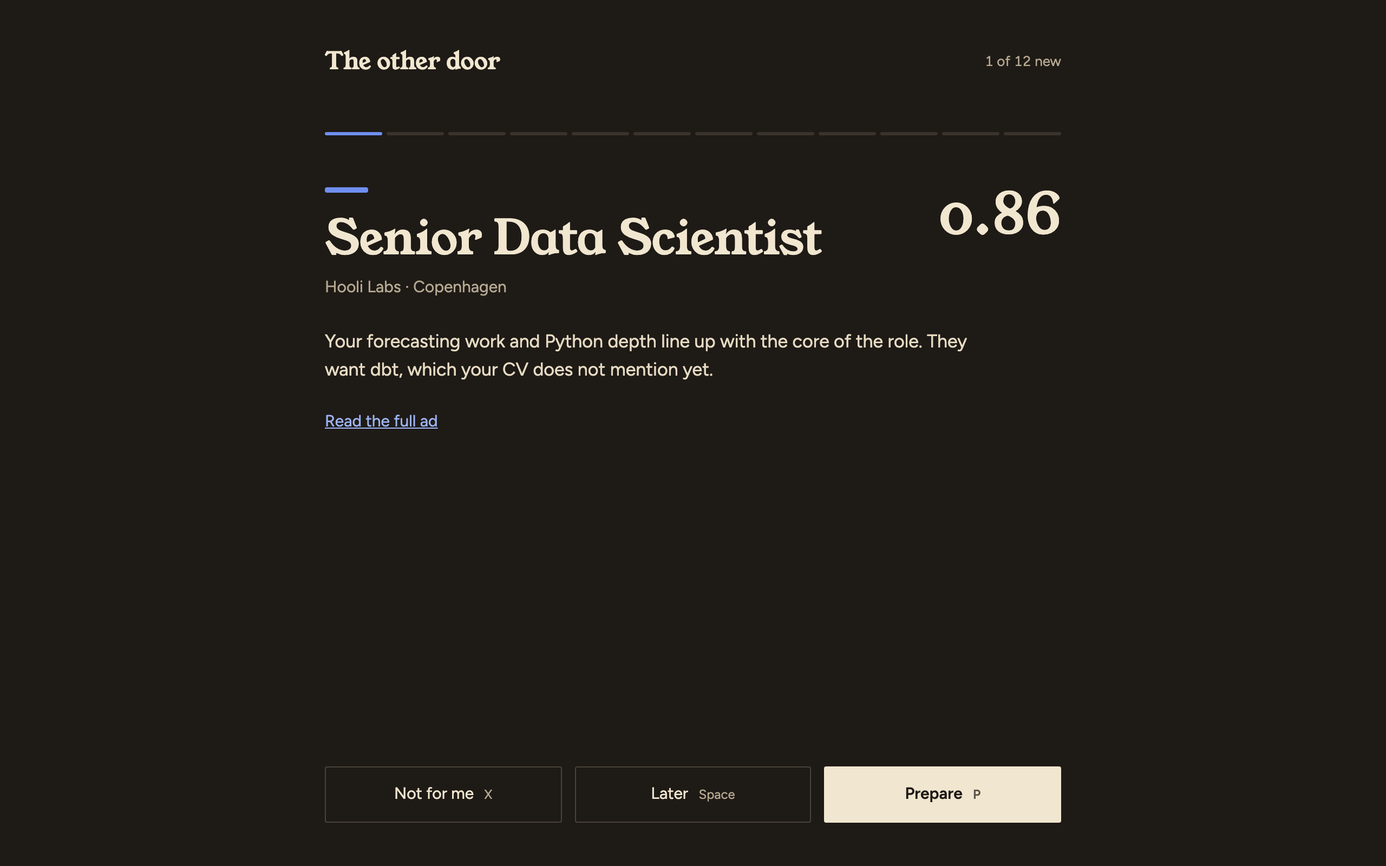
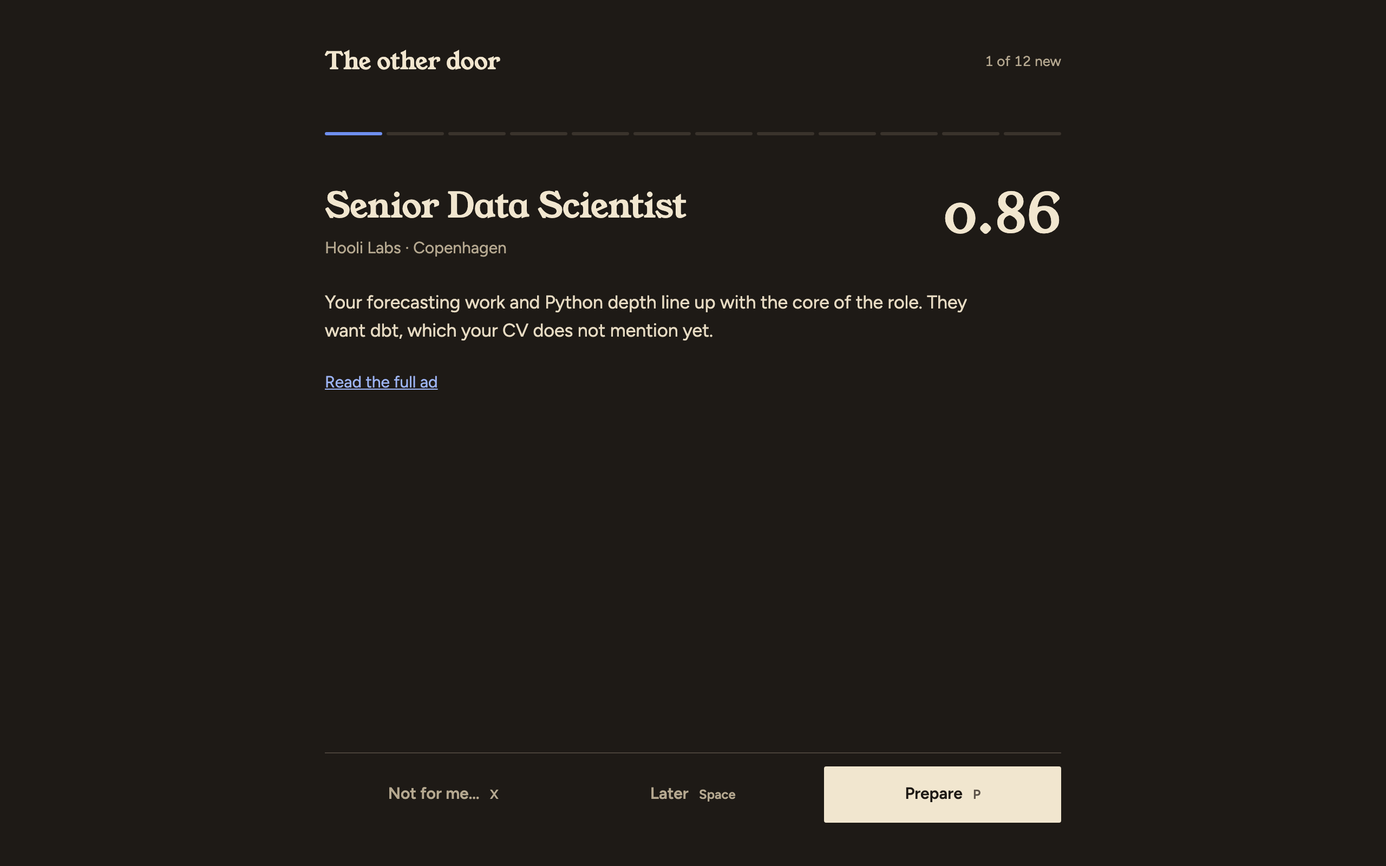
docs: the mockups in the next style, no blue dash, heavy rules opening lists and columns, text buttons (#516)
Claude-Session: https://claude.ai/code/session_01X7AZRFqExrr4sA3BdgVa7f

diff --git a/docs/design/mockups/Main.dc.html b/docs/design/mockups/Main.dc.html
@@ -20,7 +20,7 @@ button{font:inherit;cursor:pointer}
   <nav aria-label="Main" style="flex: 0 0 220px; box-sizing: border-box; padding: 28px 20px; display: flex; flex-direction: column; gap: 28px; border-right: 1px solid #D6C7A8">
     <div style="display: flex; align-items: center; gap: 10px; padding: 0 8px">
       <svg width="24" height="32" viewBox="100 48 312 416" aria-hidden="true"><path transform="translate(97.5 452.5) scale(.5 -.5)" d="M533 185Q533 149 544.0 120.5Q555 92 592 87Q604 86 604 74V41Q604 27 589 27Q540 27 507.5 21.5Q475 16 451.5 7.5Q428 -1 405 -11Q401 -13 398 -13H396Q393 -13 393 -10Q395 13 397.5 35.0Q400 57 404 79Q399 66 382.5 44.0Q366 22 334.5 4.5Q303 -13 252 -13Q218 -13 179.5 1.0Q141 15 107.0 46.0Q73 77 51.5 127.5Q30 178 30 251Q30 344 63.5 401.5Q97 459 150.5 486.0Q204 513 264 513Q340 513 393 466V530Q393 557 389.5 582.0Q386 607 374.0 624.5Q362 642 334 645Q322 646 322 658V692Q322 698 326.0 700.5Q330 703 337 705Q416 731 460.5 757.0Q505 783 525 798Q528 800 530 800H531Q533 800 533 798ZM393 324Q393 371 362.5 404.0Q332 437 282 437Q234 437 207.0 416.0Q180 395 169.5 360.0Q159 325 159 283Q159 187 197.5 131.0Q236 75 297 75Q324 75 344.0 88.5Q364 102 376.5 122.0Q389 142 393 160Z" fill="#1E1A16"/></svg>
-      <span style="font-family: 'Young Serif', Georgia, serif; font-size: 26px; font-weight: 400; letter-spacing: -0.01em">The other door</span>
+      <span style="font-family: 'Young Serif', Georgia, serif; font-size: 22px; font-weight: 400; letter-spacing: -0.01em; white-space: nowrap">The other door</span>
     </div>
     <div style="display: flex; flex-direction: column; gap: 2px">
       <sc-for list="{{nav}}" as="item" hint-placeholder-count="5">
@@ -34,7 +34,7 @@ button{font:inherit;cursor:pointer}
   </nav>
 
   <section aria-label="Matches" style="flex: 1 1 340px; min-width: 0; box-sizing: border-box; padding: 32px 0 24px; border-right: 1px solid #D6C7A8; display: flex; flex-direction: column">
-    <div style="padding: 0 28px 20px">
+    <div style="margin: 0 28px; padding: 0 0 20px; border-bottom: 2px solid #1E1A16">
       <h1 style="margin: 0; font-family: 'Young Serif', Georgia, serif; font-size: 32px; font-weight: 400; letter-spacing: -0.01em; line-height: 1.1">Matches</h1>
       <p style="margin: 6px 0 0; color: #5C5249">12 new since your last review</p>
       <div style="display: flex; gap: 6px; margin-top: 18px; flex-wrap: wrap">
@@ -43,16 +43,15 @@ button{font:inherit;cursor:pointer}
         <button type="button" style="height: 32px; padding: 0 2px; border: 0; background: none; color: #1E1A16; font-size: 13px">Best first</button>
       </div>
     </div>
-    <ul style="list-style: none; margin: 0; padding: 0 12px; display: flex; flex-direction: column; gap: 2px">
+    <ul style="list-style: none; margin: 0; padding: 0 28px; display: flex; flex-direction: column; gap: 0">
       <sc-for list="{{jobs}}" as="job" hint-placeholder-count="6">
         <li>
           <button type="button" onClick="{{job.pick}}" style="{{job.style}}">
             <span style="display: flex; flex-direction: column; gap: 2px; min-width: 0; text-align: left">
-              <sc-if value="{{job.selected}}" hint-placeholder-val="{{ false }}"><span aria-hidden="true" style="display: block; width: 22px; height: 4px; border-radius: 2px; background: {{accent}}; margin-bottom: 6px"></span></sc-if>
               <span style="font-weight: 600; font-size: 15px">{{job.title}}</span>
               <span style="color: #5C5249; font-size: 13px">{{job.company}} · {{job.place}}</span>
             </span>
-            <span style="font-family: 'Young Serif', Georgia, serif; font-size: 20px; font-weight: 400; font-variant-numeric: tabular-nums">{{job.score}}</span>
+            <span style="font-family: 'Young Serif', Georgia, serif; font-size: 22px; font-weight: 400; font-variant-numeric: tabular-nums">{{job.score}}</span>
           </button>
         </li>
       </sc-for>
@@ -61,24 +60,23 @@ button{font:inherit;cursor:pointer}
 
   <article style="flex: 999 1 480px; min-width: 0; box-sizing: border-box; padding: 40px 48px; display: flex; flex-direction: column; gap: 24px; max-width: 760px">
     <div>
-      <span aria-hidden="true" style="display: block; width: 40px; height: 5px; border-radius: 2px; background: {{accent}}; margin-bottom: 18px"></span>
-      <h2 style="margin: 0; font-family: 'Young Serif', Georgia, serif; font-size: 36px; font-weight: 400; letter-spacing: -0.01em; line-height: 1.15">{{sel.title}}</h2>
+      <h2 style="margin: 0; font-family: 'Young Serif', Georgia, serif; font-size: 32px; font-weight: 400; letter-spacing: -0.01em; line-height: 1.15">{{sel.title}}</h2>
       <p style="margin: 8px 0 0; color: #5C5249; font-size: 15px">{{sel.company}} · {{sel.place}} · posted 3 days ago · via Jobindex</p>
     </div>
     <div style="display: flex; align-items: baseline; gap: 14px">
-      <span style="font-family: 'Young Serif', Georgia, serif; font-size: 56px; font-weight: 400; line-height: 1; font-variant-numeric: tabular-nums">{{sel.score}}</span>
+      <span style="font-family: 'Young Serif', Georgia, serif; font-size: 50px; font-weight: 400; line-height: 1; font-variant-numeric: tabular-nums">{{sel.score}}</span>
       <span style="font-weight: 600">Strong match</span>
     </div>
     <p style="margin: 0; font-size: 15px; max-width: 60ch">Your forecasting work and Python depth line up with the core of the role. The team wants dbt, which your CV doesn't mention yet.</p>
     <div style="display: flex; gap: 10px; flex-wrap: wrap">
       <button type="button" style="height: 32px; padding: 0 16px; border: 0; border-radius: 2px; background: #1E1A16; color: #FFFCF5; font-weight: 600; font-size: 13px">Prepare application</button>
       <button type="button" style="height: 32px; padding: 0; border: 0; background: none; color: #3D5798; font-weight: 600; font-size: 13px">Mark applied</button>
-      <button type="button" style="height: 44px; padding: 0 18px; border: 0; background: transparent; color: #5C5249">Not for me</button>
+      <button type="button" style="height: 32px; padding: 0; border: 0; background: none; color: #5C5249; font-weight: 600; font-size: 13px">Not for me…</button>
     </div>
     <hr style="border: 0; border-top: 1px solid #D6C7A8; margin: 4px 0">
     <div style="display: grid; grid-template-columns: repeat(2, minmax(0, 1fr)); gap: 32px">
       <div>
-        <h3 style="margin: 0 0 10px; font-size: 12px; letter-spacing: 0.08em; text-transform: uppercase; color: #5C5249">Why it fits</h3>
+        <h3 style="margin: 0 0 10px; font-size: 11px; font-weight: 600; letter-spacing: 0.08em; text-transform: uppercase; color: #1E1A16">Why it fits</h3>
         <ul style="margin: 0; padding-left: 18px; display: flex; flex-direction: column; gap: 6px">
           <li>Five years of demand forecasting</li>
           <li>Python, SQL, experiment design</li>
@@ -86,7 +84,7 @@ button{font:inherit;cursor:pointer}
         </ul>
       </div>
       <div>
-        <h3 style="margin: 0 0 10px; font-size: 12px; letter-spacing: 0.08em; text-transform: uppercase; color: #5C5249">Gaps</h3>
+        <h3 style="margin: 0 0 10px; font-size: 11px; font-weight: 600; letter-spacing: 0.08em; text-transform: uppercase; color: #1E1A16">Gaps</h3>
         <ul style="margin: 0; padding-left: 18px; display: flex; flex-direction: column; gap: 6px">
           <li>dbt</li>
           <li>Stakeholder reporting in Looker</li>

diff --git a/docs/design/mockups/Prepare.dc.html b/docs/design/mockups/Prepare.dc.html
@@ -20,7 +20,7 @@ button,textarea{font:inherit}
   <header style="display: flex; justify-content: space-between; align-items: flex-end; gap: 24px; flex-wrap: wrap">
     <div>
       <a href="#" style="font-size: 13px; text-decoration: none">← Matches</a>
-      <h1 style="margin: 10px 0 0; font-family: 'Young Serif', Georgia, serif; font-size: 40px; font-weight: 400; letter-spacing: -0.01em; line-height: 1.1">Ready to send</h1>
+      <h1 style="margin: 10px 0 0; font-family: 'Young Serif', Georgia, serif; font-size: 32px; font-weight: 400; letter-spacing: -0.01em; line-height: 1.1">Ready to send</h1>
       <p style="margin: 6px 0 0; color: #5C5249; font-size: 15px">Senior Data Scientist · Hooli Labs</p>
     </div>
     <div style="display: flex; gap: 10px; flex-wrap: wrap">
@@ -34,9 +34,9 @@ button,textarea{font:inherit}
     <div style="flex: 999 1 560px; min-width: 0; display: flex; gap: 32px; flex-wrap: wrap">
       <sc-for list="{{docs}}" as="doc" hint-placeholder-count="2">
         <figure style="margin: 0; display: flex; flex-direction: column; gap: 12px">
-          <div style="width: 300px; height: 424px; box-sizing: border-box; background: #FFFCF5; border-radius: 4px; box-shadow: 0 1px 2px rgba(30,26,22,0.08), 0 12px 32px rgba(30,26,22,0.08); padding: 36px 32px; display: flex; flex-direction: column; gap: 9px" aria-hidden="true">
+          <div style="width: 300px; height: 424px; box-sizing: border-box; background: #FFFCF5; border-radius: 2px; padding: 36px 32px; display: flex; flex-direction: column; gap: 9px" aria-hidden="true">
             <span style="display: block; width: 120px; height: 10px; border-radius: 2px; background: #1E1A16"></span>
-            <span style="display: block; width: 36px; height: 4px; border-radius: 2px; background: #3D5798; margin: 6px 0 10px"></span>
+            <span style="display: block; height: 0; margin: 6px 0 10px"></span>
             <sc-for list="{{doc.lines}}" as="w" hint-placeholder-count="12">
               <span style="display: block; height: 5px; border-radius: 2px; background: #D6C7A8; width: {{w}}"></span>
             </sc-for>
@@ -51,7 +51,7 @@ button,textarea{font:inherit}
 
     <aside style="flex: 1 1 320px; min-width: 0; display: flex; flex-direction: column; gap: 28px">
       <section>
-        <h2 style="margin: 0 0 12px; font-size: 12px; letter-spacing: 0.08em; text-transform: uppercase; color: #5C5249">Keywords woven in</h2>
+        <h2 style="margin: 0 0 12px; padding-top: 12px; border-top: 2px solid #1E1A16; font-size: 11px; font-weight: 600; letter-spacing: 0.08em; text-transform: uppercase; color: #1E1A16">Keywords woven in</h2>
         <div style="display: flex; gap: 6px; flex-wrap: wrap">
           <sc-for list="{{keywords}}" as="k" hint-placeholder-count="6">
             <span style="padding: 4px 12px; border-radius: 2px; background: #FFFCF5; font-size: 13px">{{k}}</span>
@@ -59,7 +59,7 @@ button,textarea{font:inherit}
         </div>
       </section>
       <section>
-        <h2 style="margin: 0 0 12px; font-size: 12px; letter-spacing: 0.08em; text-transform: uppercase; color: #5C5249">What changed</h2>
+        <h2 style="margin: 0 0 12px; padding-top: 12px; border-top: 2px solid #1E1A16; font-size: 11px; font-weight: 600; letter-spacing: 0.08em; text-transform: uppercase; color: #1E1A16">What changed</h2>
         <ul style="margin: 0; padding-left: 18px; display: flex; flex-direction: column; gap: 6px">
           <li>Summary leads with forecasting at scale</li>
           <li>Retail project moved up, review analytics added</li>
@@ -71,7 +71,7 @@ button,textarea{font:inherit}
         <textarea id="revise" rows="3" placeholder="Make the letter shorter and warmer…" style="box-sizing: border-box; width: 100%; padding: 12px 14px; border: 1px solid #D6C7A8; border-radius: 2px; background: #FFFCF5; color: #1E1A16; resize: vertical"></textarea>
         <div style="display: flex; gap: 10px; align-items: center">
           <button type="button" style="height: 32px; padding: 0; border: 0; background: none; color: #3D5798; font-weight: 600; font-size: 13px">Revise</button>
-          <button type="button" style="height: 44px; padding: 0 14px; border: 0; background: transparent; color: #5C5249">Undo last change</button>
+          <button type="button" style="height: 32px; padding: 0; border: 0; background: none; color: #3D5798; font-weight: 600; font-size: 13px">Undo last change</button>
         </div>
       </section>
     </aside>

diff --git a/docs/design/mockups/Applications.dc.html b/docs/design/mockups/Applications.dc.html
@@ -17,20 +17,20 @@ button{font:inherit}
 <div style="min-height: 800px; box-sizing: border-box; background: #F1E6CF; color: #1E1A16; font-family: Figtree, system-ui, sans-serif; font-size: 14px; line-height: 1.5; padding: 40px 48px; display: flex; flex-direction: column; gap: 32px">
   <header style="display: flex; justify-content: space-between; align-items: flex-end; gap: 24px; flex-wrap: wrap">
     <div>
-      <h1 style="margin: 0; font-family: 'Young Serif', Georgia, serif; font-size: 40px; font-weight: 400; letter-spacing: -0.01em; line-height: 1.1">Applications</h1>
+      <h1 style="margin: 0; font-family: 'Young Serif', Georgia, serif; font-size: 32px; font-weight: 400; letter-spacing: -0.01em; line-height: 1.1">Applications</h1>
       <p style="margin: 6px 0 0; color: #5C5249; font-size: 15px">11 sent this month · 3 in interviews</p>
     </div>
-    <button type="button" style="height: 32px; padding: 0; border: 0; background: none; color: #3D5798; font-weight: 600; font-size: 13px">Add a job by link</button>
+    <button type="button" style="height: 32px; padding: 0; border: 0; background: none; color: #3D5798; font-weight: 600; font-size: 13px">Add a job…</button>
   </header>
 
   <div style="overflow-x: auto; margin: 0 -48px; padding: 0 48px">
     <div style="display: grid; grid-template-columns: repeat(5, minmax(200px, 1fr)); gap: 20px; min-width: 1060px">
       <sc-for list="{{cols}}" as="col" hint-placeholder-count="5">
-        <section style="display: flex; flex-direction: column; gap: 10px">
-          <h2 style="margin: 0 0 4px; display: flex; justify-content: space-between; align-items: baseline; font-size: 12px; letter-spacing: 0.08em; text-transform: uppercase; color: #5C5249; font-weight: 600"><span>{{col.name}}</span><span style="font-variant-numeric: tabular-nums">{{col.n}}</span></h2>
+        <section style="display: flex; flex-direction: column">
+          <h2 style="margin: 0; padding-bottom: 10px; border-bottom: 2px solid #1E1A16; display: flex; justify-content: space-between; align-items: baseline; font-size: 11px; letter-spacing: 0.08em; text-transform: uppercase; color: #1E1A16; font-weight: 600"><span>{{col.name}}</span><span style="font-variant-numeric: tabular-nums">{{col.n}}</span></h2>
           <sc-for list="{{col.cards}}" as="c" hint-placeholder-count="2">
-            <div style="display: flex; flex-direction: column; align-items: flex-start; gap: 4px">
-            <button type="button" style="width: 100%; text-align: left; border: 0; border-top: 1px solid #D6C7A8; border-radius: 0; background: none; color: #1E1A16; padding: 12px 0; display: flex; flex-direction: column; gap: 4px">
+            <div style="display: flex; flex-direction: column; align-items: flex-start; gap: 0">
+            <button type="button" style="width: 100%; text-align: left; border: 0; border-bottom: 1px solid #D6C7A8; border-radius: 0; background: none; color: #1E1A16; padding: 12px 0; display: flex; flex-direction: column; gap: 4px">
               <span style="font-weight: 600">{{c.title}}</span>
               <span style="color: #5C5249; font-size: 13px">{{c.company}}</span>
               <span style="display: flex; align-items: center; gap: 6px; margin-top: 8px">
@@ -40,7 +40,7 @@ button{font:inherit}
                 <span style="color: #5C5249; font-size: 12px">{{c.note}}</span>
               </span>
             </button>
-            <sc-if value="{{c.silent}}" hint-placeholder-val="{{ false }}"><button type="button" style="min-height: 44px; padding: 0 16px; border: 0; background: none; color: #5C5249; font-size: 13px; font-weight: 600; text-align: left">Mark ghosted</button></sc-if>
+            <sc-if value="{{c.silent}}" hint-placeholder-val="{{ false }}"><button type="button" style="height: 32px; padding: 0; border: 0; background: none; color: #3D5798; font-size: 13px; font-weight: 600; text-align: left">Mark ghosted</button></sc-if>
             </div>
           </sc-for>
         </section>

diff --git a/docs/design/mockups/PhoneMatches.dc.html b/docs/design/mockups/PhoneMatches.dc.html
@@ -18,18 +18,18 @@ button{font:inherit}
   <main style="flex: 1; min-height: 0; overflow: hidden; padding: 28px 20px 0; display: flex; flex-direction: column">
     <div style="display: flex; justify-content: space-between; align-items: baseline">
       <span style="font-family: 'Young Serif', Georgia, serif; font-size: 20px; font-weight: 400">The other door</span>
-      <button type="button" style="height: 36px; padding: 0 14px; border: 1px solid {{t.border}}; border-radius: 18px; background: transparent; color: {{t.ink}}; font-size: 13px">Find new jobs</button>
+      <button type="button" style="height: 32px; padding: 0; border: 0; background: none; color: {{t.accent}}; font-weight: 600; font-size: 13px">Find new jobs</button>
     </div>
-    <h1 style="margin: 20px 0 0; font-family: 'Young Serif', Georgia, serif; font-size: 36px; font-weight: 400; letter-spacing: -0.01em; line-height: 1.1">Matches</h1>
+    <h1 style="margin: 20px 0 0; font-family: 'Young Serif', Georgia, serif; font-size: 32px; font-weight: 400; letter-spacing: -0.01em; line-height: 1.1">Matches</h1>
     <p style="margin: 4px 0 0; color: {{t.muted}}">12 new since your last review</p>
-    <div style="display: flex; gap: 6px; margin: 16px 0 8px">
-      <button type="button" style="height: 32px; padding: 0 14px; border-radius: 2px; border: 1px solid {{t.ink}}; background: {{t.ink}}; color: {{t.ground}}; font-size: 13px">New</button>
-      <button type="button" style="height: 32px; padding: 0 14px; border-radius: 2px; border: 1px solid {{t.border}}; background: transparent; color: {{t.ink}}; font-size: 13px">All</button>
+    <div style="display: flex; gap: 12px; margin: 16px 0 12px">
+      <button type="button" style="height: 32px; padding: 0 2px; border: 0; background: none; color: {{t.ink}}; font-size: 13px; text-decoration: underline; text-decoration-thickness: 2px; text-underline-offset: 6px">New</button>
+      <button type="button" style="height: 32px; padding: 0 2px; border: 0; background: none; color: {{t.ink}}; font-size: 13px">All</button>
     </div>
-    <ul style="list-style: none; margin: 0 -8px; padding: 0; display: flex; flex-direction: column">
+    <ul style="list-style: none; margin: 0; padding: 0; border-top: 2px solid {{t.ink}}; display: flex; flex-direction: column">
       <sc-for list="{{jobs}}" as="job" hint-placeholder-count="6">
         <li style="border-bottom: 1px solid {{t.rule}}">
-          <button type="button" style="width: 100%; min-height: 72px; display: flex; align-items: center; justify-content: space-between; gap: 12px; padding: 12px 8px; border: 0; background: transparent; color: {{t.ink}}; text-align: left">
+          <button type="button" style="width: 100%; min-height: 72px; display: flex; align-items: center; justify-content: space-between; gap: 12px; padding: 12px 0; border: 0; background: transparent; color: {{t.ink}}; text-align: left">
             <span style="display: flex; flex-direction: column; gap: 2px; min-width: 0">
               <span style="display: flex; align-items: center; gap: 8px; font-weight: 600; font-size: 15px">
                 <sc-if value="{{job.isNew}}" hint-placeholder-val="{{ false }}"><span aria-label="new" style="flex: none; width: 6px; height: 6px; border-radius: 3px; background: {{t.accent}}"></span></sc-if>
@@ -37,7 +37,7 @@ button{font:inherit}
               </span>
               <span style="color: {{t.muted}}; font-size: 13px">{{job.company}} · {{job.place}}</span>
             </span>
-            <span style="font-family: 'Young Serif', Georgia, serif; font-size: 20px; font-weight: 400; font-variant-numeric: tabular-nums">{{job.score}}</span>
+            <span style="font-family: 'Young Serif', Georgia, serif; font-size: 22px; font-weight: 400; font-variant-numeric: tabular-nums">{{job.score}}</span>
           </button>
         </li>
       </sc-for>

diff --git a/docs/design/mockups/PhonePrepared.dc.html b/docs/design/mockups/PhonePrepared.dc.html
@@ -27,19 +27,19 @@ button,input{font:inherit}
   </header>
   <main style="flex: 1; min-height: 0; overflow: hidden; padding: 4px 20px 0; display: flex; flex-direction: column; gap: 14px">
     <div>
-      <h1 style="margin: 0; font-family: 'Young Serif', Georgia, serif; font-size: 30px; font-weight: 400; letter-spacing: -0.01em; line-height: 1.15">Ready to send</h1>
+      <h1 style="margin: 0; font-family: 'Young Serif', Georgia, serif; font-size: 32px; font-weight: 400; letter-spacing: -0.01em; line-height: 1.15">Ready to send</h1>
       <p style="margin: 2px 0 0; color: #5C5249">Senior Data Scientist · Hooli Labs</p>
     </div>
-    <div role="group" aria-label="Document" style="display: grid; grid-template-columns: repeat(2, minmax(0, 1fr)); padding: 3px; border-radius: 2px; background: #E7DABF">
-      <button type="button" style="height: 36px; border: 0; border-radius: 2px; background: #FFFCF5; color: #1E1A16; font-weight: 600; font-size: 13px">CV · 2 pages</button>
-      <button type="button" style="height: 36px; border: 0; border-radius: 2px; background: transparent; color: #5C5249; font-size: 13px">Letter · 310 words</button>
+    <div role="group" aria-label="Document" style="display: grid; grid-template-columns: repeat(2, max-content); gap: 16px; justify-content: start">
+      <button type="button" style="height: 32px; padding: 0 2px; border: 0; background: none; color: #1E1A16; font-size: 13px; text-decoration: underline; text-decoration-thickness: 2px; text-underline-offset: 6px">CV · 2 pages</button>
+      <button type="button" style="height: 32px; padding: 0 2px; border: 0; background: none; color: #1E1A16; font-size: 13px">Letter · 310 words</button>
     </div>
     <div style="display: flex; gap: 14px; margin-right: -20px">
       <sc-for list="{{pages}}" as="pg" hint-placeholder-count="2">
-        <div aria-hidden="true" style="flex: none; width: 236px; height: 334px; box-sizing: border-box; background: #FFFCF5; border-radius: 4px; box-shadow: 0 1px 2px rgba(30,26,22,0.08), 0 10px 24px rgba(30,26,22,0.08); padding: 26px 22px; display: flex; flex-direction: column; gap: 7px">
+        <div aria-hidden="true" style="flex: none; width: 236px; height: 334px; box-sizing: border-box; background: #FFFCF5; border-radius: 2px; padding: 26px 22px; display: flex; flex-direction: column; gap: 7px">
           <sc-if value="{{pg.first}}" hint-placeholder-val="{{ true }}">
             <span style="display: block; width: 96px; height: 8px; border-radius: 2px; background: #1E1A16"></span>
-            <span style="display: block; width: 28px; height: 3px; border-radius: 2px; background: #3D5798; margin: 4px 0 8px"></span>
+            <span style="display: block; height: 0; margin: 4px 0 8px"></span>
           </sc-if>
           <sc-for list="{{pg.lines}}" as="w" hint-placeholder-count="14">
             <span style="display: block; height: 4px; border-radius: 2px; background: #D6C7A8; width: {{w}}"></span>
@@ -58,7 +58,7 @@ button,input{font:inherit}
     </div>
   </main>
   <div style="flex: none; display: flex; gap: 10px; padding: 12px 20px 30px; border-top: 1px solid #D6C7A8; background: #F1E6CF">
-    <button type="button" style="flex: 0 0 auto; height: 48px; padding: 0 16px; border: 1px solid #D6C7A8; border-radius: 2px; background: transparent; color: #1E1A16">Open PDF</button>
+    <button type="button" style="flex: 0 0 auto; height: 48px; padding: 0 8px 0 0; border: 0; background: none; color: #3D5798; font-weight: 600">Open PDF</button>
     <button type="button" style="flex: 1; height: 48px; border: 0; border-radius: 2px; background: #1E1A16; color: #FFFCF5; font-weight: 600">I've applied</button>
   </div>
 </div>

diff --git a/docs/design/mockups/PhonePosting.dc.html b/docs/design/mockups/PhonePosting.dc.html
@@ -24,29 +24,28 @@ button{font:inherit}
   </header>
   <main style="flex: 1; min-height: 0; overflow: hidden; padding: 12px 20px 0; display: flex; flex-direction: column; gap: 18px">
     <div>
-      <span aria-hidden="true" style="display: block; width: 32px; height: 4px; border-radius: 2px; background: #3D5798; margin-bottom: 14px"></span>
-      <h1 style="margin: 0; font-family: 'Young Serif', Georgia, serif; font-size: 30px; font-weight: 400; letter-spacing: -0.01em; line-height: 1.15">Senior Data Scientist</h1>
+      <h1 style="margin: 0; font-family: 'Young Serif', Georgia, serif; font-size: 32px; font-weight: 400; letter-spacing: -0.01em; line-height: 1.15">Senior Data Scientist</h1>
       <p style="margin: 6px 0 0; color: #5C5249; font-size: 14px">Hooli Labs · Copenhagen · 3 days ago</p>
     </div>
     <div style="display: flex; align-items: baseline; gap: 12px">
-      <span style="font-family: 'Young Serif', Georgia, serif; font-size: 48px; font-weight: 400; line-height: 1; font-variant-numeric: tabular-nums">0.86</span>
+      <span style="font-family: 'Young Serif', Georgia, serif; font-size: 50px; font-weight: 400; line-height: 1; font-variant-numeric: tabular-nums">0.86</span>
       <span style="font-weight: 600">Strong match</span>
     </div>
     <p style="margin: 0">Your forecasting work and Python depth line up with the core of the role. The team wants dbt, which your CV doesn't mention yet.</p>
-    <div style="border-top: 1px solid #D6C7A8; padding-top: 16px; display: flex; flex-direction: column; gap: 14px">
+    <div style="border-top: 2px solid #1E1A16; padding-top: 16px; display: flex; flex-direction: column; gap: 14px">
       <div>
-        <h2 style="margin: 0 0 6px; font-size: 12px; letter-spacing: 0.08em; text-transform: uppercase; color: #5C5249">Why it fits</h2>
+        <h2 style="margin: 0 0 6px; font-size: 11px; font-weight: 600; letter-spacing: 0.08em; text-transform: uppercase; color: #1E1A16">Why it fits</h2>
         <ul style="margin: 0; padding-left: 18px; font-size: 14px"><li>Five years of demand forecasting</li><li>Python, SQL, experiment design</li><li>Danish and English, both asked</li></ul>
       </div>
       <div>
-        <h2 style="margin: 0 0 6px; font-size: 12px; letter-spacing: 0.08em; text-transform: uppercase; color: #5C5249">Gaps</h2>
+        <h2 style="margin: 0 0 6px; font-size: 11px; font-weight: 600; letter-spacing: 0.08em; text-transform: uppercase; color: #1E1A16">Gaps</h2>
         <ul style="margin: 0; padding-left: 18px; font-size: 14px"><li>dbt</li><li>Stakeholder reporting in Looker</li></ul>
       </div>
       <a href="#" style="font-weight: 500; font-size: 14px">Read the full ad</a>
     </div>
   </main>
   <div style="flex: none; display: flex; gap: 10px; padding: 12px 20px 30px; border-top: 1px solid #D6C7A8; background: #F1E6CF">
-    <button type="button" style="flex: 0 0 auto; height: 48px; padding: 0 16px; border: 1px solid #D6C7A8; border-radius: 2px; background: transparent; color: #1E1A16">Not for me</button>
+    <button type="button" style="flex: 0 0 auto; height: 48px; padding: 0 8px 0 0; border: 0; background: none; color: #5C5249; font-weight: 600">Not for me…</button>
     <button type="button" style="flex: 1; height: 48px; border: 0; border-radius: 2px; background: #1E1A16; color: #FFFCF5; font-weight: 600">Prepare application</button>
   </div>
 </div>

diff --git a/docs/design/mockups/PhoneApplications.dc.html b/docs/design/mockups/PhoneApplications.dc.html
@@ -17,12 +17,12 @@ button{font:inherit}
 <div style="width: 390px; height: 844px; box-sizing: border-box; display: flex; flex-direction: column; background: #F1E6CF; color: #1E1A16; font-family: Figtree, system-ui, sans-serif; font-size: 14px; line-height: 1.5; overflow: hidden">
   <main style="flex: 1; min-height: 0; overflow: hidden; padding: 28px 20px 0; display: flex; flex-direction: column; gap: 18px">
     <div>
-      <h1 style="margin: 0; font-family: 'Young Serif', Georgia, serif; font-size: 36px; font-weight: 400; letter-spacing: -0.01em; line-height: 1.1">Applications</h1>
+      <h1 style="margin: 0; font-family: 'Young Serif', Georgia, serif; font-size: 32px; font-weight: 400; letter-spacing: -0.01em; line-height: 1.1">Applications</h1>
       <p style="margin: 4px 0 0; color: #5C5249">11 sent this month · 3 in interviews</p>
     </div>
     <sc-for list="{{groups}}" as="g" hint-placeholder-count="3">
       <section>
-        <h2 style="margin: 0 0 4px; display: flex; justify-content: space-between; font-size: 12px; letter-spacing: 0.08em; text-transform: uppercase; color: #5C5249; font-weight: 600"><span>{{g.name}}</span><span>{{g.n}}</span></h2>
+        <h2 style="margin: 0; padding-bottom: 8px; border-bottom: 2px solid #1E1A16; display: flex; justify-content: space-between; font-size: 11px; font-weight: 600; letter-spacing: 0.08em; text-transform: uppercase; color: #1E1A16"><span>{{g.name}}</span><span>{{g.n}}</span></h2>
         <ul style="list-style: none; margin: 0; padding: 0">
           <sc-for list="{{g.items}}" as="c" hint-placeholder-count="2">
             <li style="border-bottom: 1px solid #D6C7A8; display: flex; flex-direction: column; align-items: flex-start">
@@ -36,13 +36,13 @@ button{font:inherit}
                   <span>{{c.note}}</span>
                 </span>
               </button>
-              <sc-if value="{{c.silent}}" hint-placeholder-val="{{ false }}"><button type="button" style="min-height: 44px; padding: 0; border: 0; background: none; color: #5C5249; font-size: 13px; font-weight: 600; text-align: left">Mark ghosted</button></sc-if>
+              <sc-if value="{{c.silent}}" hint-placeholder-val="{{ false }}"><button type="button" style="height: 32px; padding: 0; border: 0; background: none; color: #3D5798; font-size: 13px; font-weight: 600; text-align: left">Mark ghosted</button></sc-if>
             </li>
           </sc-for>
         </ul>
       </section>
     </sc-for>
-    <button type="button" style="align-self: flex-start; min-height: 44px; padding: 0; border: 0; background: transparent; color: #5C5249">Closed (2)</button>
+    <button type="button" style="align-self: flex-start; height: 32px; padding: 0; border: 0; background: none; color: #3D5798; font-weight: 600; font-size: 13px">Closed (2)</button>
   </main>
   <nav aria-label="Main" style="flex: none; display: grid; grid-template-columns: repeat(5, minmax(0, 1fr)); padding: 6px 4px 22px; border-top: 1px solid #D6C7A8; background: #F1E6CF">
     <sc-for list="{{tabs}}" as="tab" hint-placeholder-count="5">

diff --git a/docs/design/mockups/Review.dc.html b/docs/design/mockups/Review.dc.html
@@ -31,19 +31,18 @@ button{font:inherit;cursor:pointer}
   <article style="width: 100%; max-width: 680px; display: flex; flex-direction: column; gap: 24px">
     <div style="display: flex; justify-content: space-between; align-items: flex-start; gap: 24px">
       <div>
-        <span aria-hidden="true" style="display: block; width: 40px; height: 5px; border-radius: 2px; background: #6F8FEF; margin-bottom: 18px"></span>
-        <h1 style="margin: 0; font-family: 'Young Serif', Georgia, serif; font-size: 44px; font-weight: 400; letter-spacing: -0.01em; line-height: 1.1">{{job.title}}</h1>
+        <h1 style="margin: 0; font-family: 'Young Serif', Georgia, serif; font-size: 32px; font-weight: 400; letter-spacing: -0.01em; line-height: 1.1">{{job.title}}</h1>
         <p style="margin: 10px 0 0; color: #B5A890">{{job.company}} · {{job.place}}</p>
       </div>
-      <span style="font-family: 'Young Serif', Georgia, serif; font-size: 52px; font-weight: 400; line-height: 1; font-variant-numeric: tabular-nums">{{job.score}}</span>
+      <span style="font-family: 'Young Serif', Georgia, serif; font-size: 50px; font-weight: 400; line-height: 1; font-variant-numeric: tabular-nums">{{job.score}}</span>
     </div>
     <p style="margin: 0; font-size: 17px; max-width: 58ch; color: #E6DAC2">{{job.why}}</p>
     <a href="#" style="font-weight: 500">Read the full ad</a>
   </article>
 
-  <div style="width: 100%; max-width: 680px; display: flex; gap: 12px; flex-wrap: wrap; margin-top: auto">
-    <button type="button" onClick="{{next}}" style="flex: 1 1 160px; height: 52px; border: 1px solid #4A423A; border-radius: 2px; background: transparent; color: #F1E6CF">Not for me <span style="color: #B5A890; font-size: 12px; margin-left: 6px">X</span></button>
-    <button type="button" onClick="{{next}}" style="flex: 1 1 160px; height: 52px; border: 1px solid #4A423A; border-radius: 2px; background: transparent; color: #F1E6CF">Later <span style="color: #B5A890; font-size: 12px; margin-left: 6px">Space</span></button>
+  <div style="width: 100%; max-width: 680px; display: flex; gap: 12px; flex-wrap: wrap; margin-top: auto; border-top: 1px solid #4A423A; padding-top: 12px">
+    <button type="button" onClick="{{next}}" style="flex: 1 1 160px; height: 52px; border: 0; border-radius: 2px; background: none; color: #B5A890; font-weight: 600">Not for me… <span style="color: #B5A890; font-size: 12px; margin-left: 6px">X</span></button>
+    <button type="button" onClick="{{next}}" style="flex: 1 1 160px; height: 52px; border: 0; border-radius: 2px; background: none; color: #B5A890; font-weight: 600">Later <span style="color: #B5A890; font-size: 12px; margin-left: 6px">Space</span></button>
     <button type="button" onClick="{{next}}" style="flex: 1 1 160px; height: 52px; border: 0; border-radius: 2px; background: #F1E6CF; color: #1E1A16; font-weight: 600">Prepare <span style="color: #5C5249; font-size: 12px; margin-left: 6px">P</span></button>
   </div>
 </div>

diff --git a/docs/design/mockups/PhoneFinding.dc.html b/docs/design/mockups/PhoneFinding.dc.html
@@ -17,13 +17,12 @@ button{font:inherit}
 <div style="width: 390px; height: 844px; box-sizing: border-box; display: flex; flex-direction: column; background: #F1E6CF; color: #1E1A16; font-family: Figtree, system-ui, sans-serif; font-size: 14px; line-height: 1.5; overflow: hidden">
   <main style="flex: 1; min-height: 0; overflow: hidden; padding: 40px 20px 0; display: flex; flex-direction: column; gap: 22px">
     <div>
-      <span aria-hidden="true" style="display: block; width: 32px; height: 4px; border-radius: 2px; background: #3D5798; margin-bottom: 14px"></span>
-      <h1 style="margin: 0; font-family: 'Young Serif', Georgia, serif; font-size: 36px; font-weight: 400; letter-spacing: -0.01em; line-height: 1.1">Finding jobs</h1>
+      <h1 style="margin: 0; font-family: 'Young Serif', Georgia, serif; font-size: 32px; font-weight: 400; letter-spacing: -0.01em; line-height: 1.1">Finding jobs</h1>
       <p style="margin: 6px 0 0; color: #5C5249">Started 08:02 on the computer running The other door. You can lock the phone.</p>
     </div>
-    <ol style="list-style: none; margin: 0; padding: 0; display: flex; flex-direction: column">
+    <ol style="list-style: none; margin: 0; padding: 0; display: flex; flex-direction: column; border-top: 2px solid #1E1A16">
       <sc-for list="{{steps}}" as="s" hint-placeholder-count="5">
-        <li style="display: grid; grid-template-columns: 28px minmax(0, 1fr) auto; gap: 12px; align-items: start; padding: 13px 0; border-top: 1px solid #D6C7A8">
+        <li style="display: grid; grid-template-columns: 28px minmax(0, 1fr) auto; gap: 12px; align-items: start; padding: 13px 0; border-bottom: 1px solid #D6C7A8">
           <span aria-hidden="true" style="{{s.dot}}">{{s.mark}}</span>
           <span style="display: flex; flex-direction: column">
             <span style="{{s.nameStyle}}">{{s.name}}</span>
@@ -36,7 +35,7 @@ button{font:inherit}
         </li>
       </sc-for>
     </ol>
-    <button type="button" style="align-self: flex-start; height: 44px; padding: 0 16px; border: 1px solid #D6C7A8; border-radius: 2px; background: transparent; color: #1E1A16">Stop after this step</button>
+    <button type="button" style="align-self: flex-start; height: 32px; padding: 0; border: 0; background: none; color: #3D5798; font-weight: 600; font-size: 13px">Stop after this step</button>
   </main>
   <nav aria-label="Main" style="flex: none; display: grid; grid-template-columns: repeat(5, minmax(0, 1fr)); padding: 6px 4px 22px; border-top: 1px solid #D6C7A8; background: #F1E6CF">
     <sc-for list="{{tabs}}" as="tab" hint-placeholder-count="5">

diff --git a/docs/design/mockups/Find.dc.html b/docs/design/mockups/Find.dc.html
@@ -17,14 +17,13 @@ button{font:inherit}
 <div style="min-height: 800px; box-sizing: border-box; background: #F1E6CF; color: #1E1A16; font-family: Figtree, system-ui, sans-serif; font-size: 14px; line-height: 1.5; padding: 72px 24px; display: flex; justify-content: center">
   <div style="width: 100%; max-width: 620px; display: flex; flex-direction: column; gap: 40px">
     <div>
-      <span aria-hidden="true" style="display: block; width: 40px; height: 5px; border-radius: 2px; background: #3D5798; margin-bottom: 18px"></span>
-      <h1 style="margin: 0; font-family: 'Young Serif', Georgia, serif; font-size: 48px; font-weight: 400; letter-spacing: -0.01em; line-height: 1.1">Finding jobs</h1>
+      <h1 style="margin: 0; font-family: 'Young Serif', Georgia, serif; font-size: 32px; font-weight: 400; letter-spacing: -0.01em; line-height: 1.1">Finding jobs</h1>
       <p style="margin: 8px 0 0; color: #5C5249; font-size: 15px">Started 08:02 · you can close this window, the run keeps going</p>
     </div>
 
-    <ol style="list-style: none; margin: 0; padding: 0; display: flex; flex-direction: column">
+    <ol style="list-style: none; margin: 0; padding: 0; display: flex; flex-direction: column; border-top: 2px solid #1E1A16">
       <sc-for list="{{steps}}" as="s" hint-placeholder-count="5">
-        <li style="display: grid; grid-template-columns: 32px minmax(0, 1fr) auto; gap: 16px; align-items: start; padding: 18px 0; border-top: 1px solid #D6C7A8">
+        <li style="display: grid; grid-template-columns: 32px minmax(0, 1fr) auto; gap: 16px; align-items: start; padding: 18px 0; border-bottom: 1px solid #D6C7A8">
           <span aria-hidden="true" style="{{s.dot}}">{{s.mark}}</span>
           <span style="display: flex; flex-direction: column; gap: 2px">
             <span style="{{s.nameStyle}}">{{s.name}}</span>
